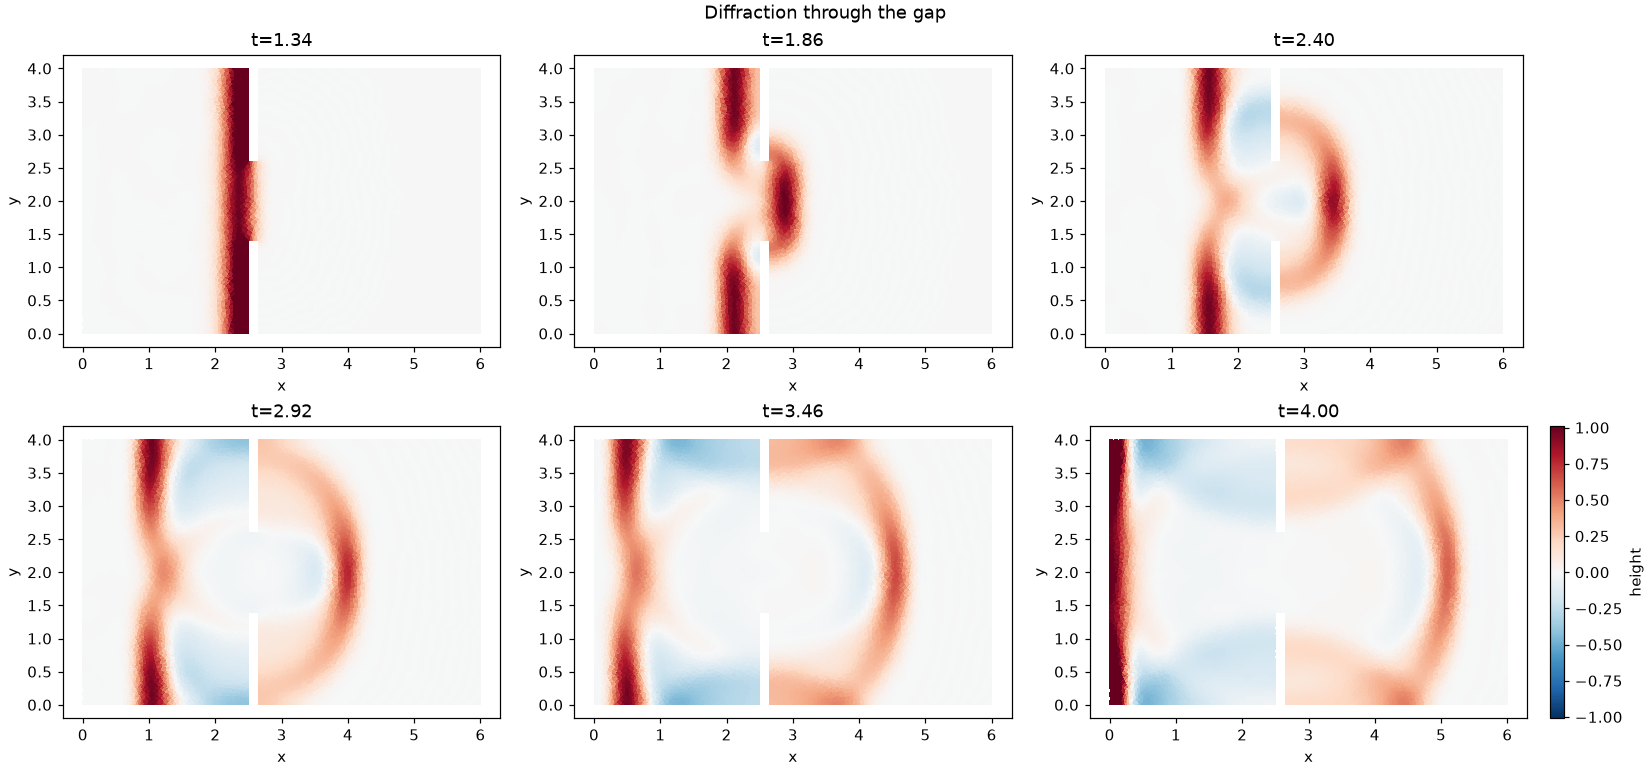
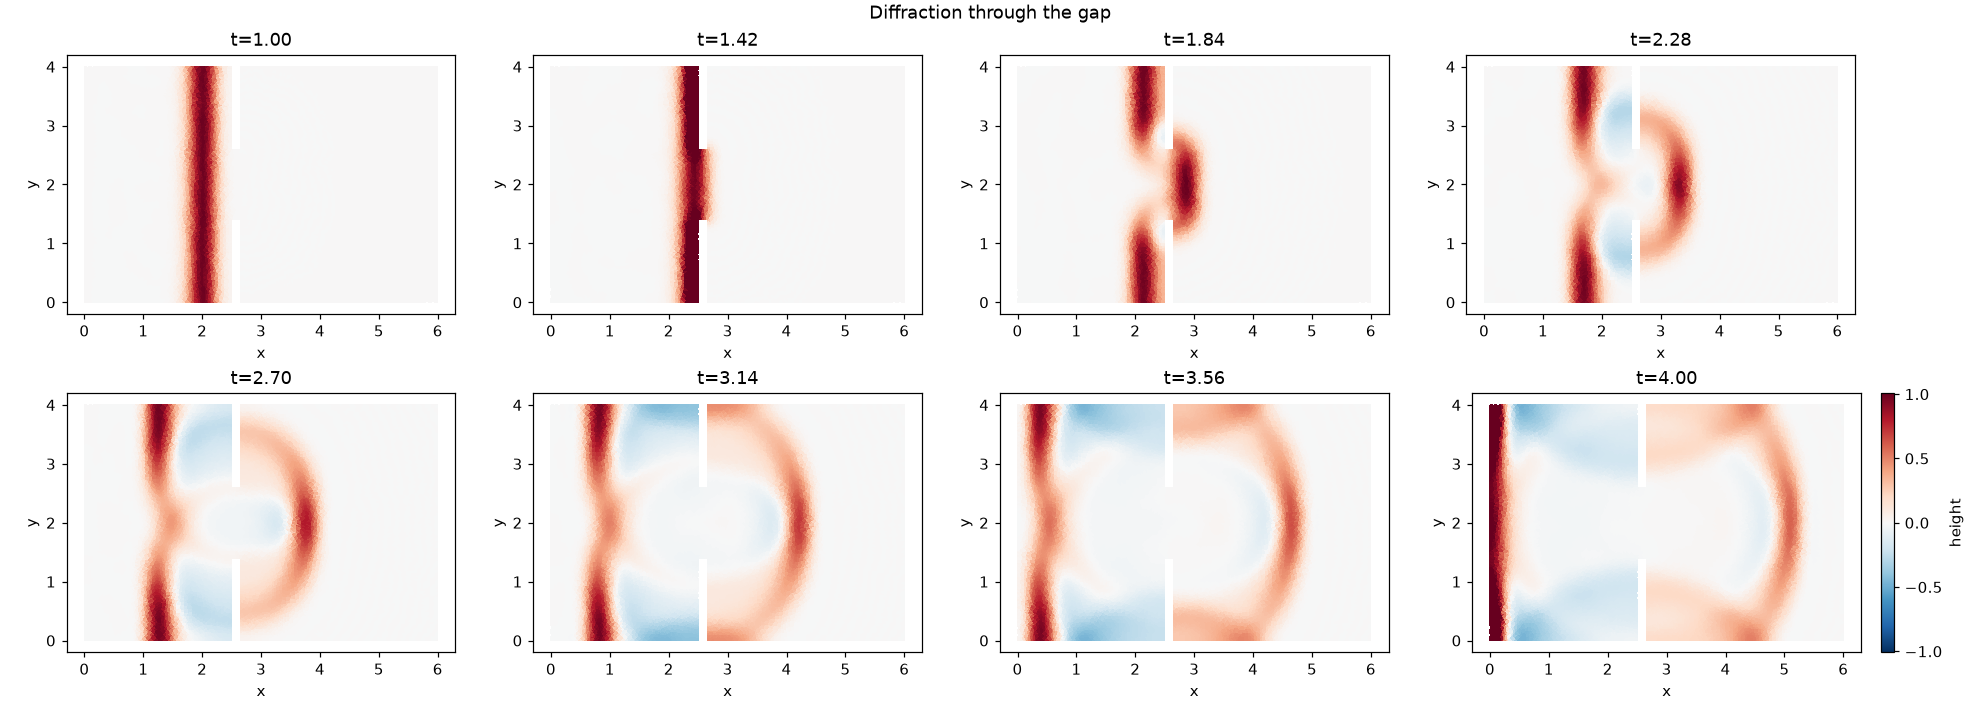
Show eight wave frames

Changed region(s): [[0.0, 0.5, 1.0, 0.9688], [0.0, 0.0, 0.9273, 0.4688], [0.2473, 0.25, 0.2782, 0.2812]]

diff --git a/examples/solver_demos.py b/examples/solver_demos.py
@@ -938,7 +938,7 @@ def demo_wave_equation(c=1.0, front_x=1.0, front_width=0.25, dt=0.02, steps=200,
     # One colour scale, set by the harbor side, so the diffracted wave reads even
     # though it is far lower than the front that made it (which doubles again when it
     # reflects off the far wall).
-    shown = [int(i) for i in np.linspace(len(u_values) // 3, len(u_values) - 1, 6)]
+    shown = [int(i) for i in np.linspace(len(u_values) // 4, len(u_values) - 1, 8)]
     harbor = x > wall_x + wall_thickness
     span = float(max(abs(u_values[i][harbor]).max() for i in shown))
     clim = (-span, span)
@@ -948,19 +948,21 @@ def demo_wave_equation(c=1.0, front_x=1.0, front_width=0.25, dt=0.02, steps=200,
                              cmap='RdBu_r', titles=[f'Harbor breakwater  t={t:.2f}' for t in t_values],
                              idx=(0, 0))
 
-    snapshots = Plotter(2, 3, figsize=(15.0, 7.0), title='Diffraction through the gap')
+    snapshots = Plotter(2, 4, figsize=(18.0, 6.4), title='Diffraction through the gap')
     for panel, i in enumerate(shown):
-        snapshots.plot(mesh, u_values[i], mode='colored', idx=divmod(panel, 3),
-                       title=f't={t_values[i]:.2f}', clim=clim, colorbar=panel == 5,
+        snapshots.plot(mesh, u_values[i], mode='colored', idx=divmod(panel, 4),
+                       title=f't={t_values[i]:.2f}', clim=clim, colorbar=panel == 7,
                        cmap='RdBu_r', label='height')
+
 
     return DemoResult([
         Figure(animation, 'Newmark time integration of the front.', 'animation'),
         Figure(snapshots,
-               'The front reflects off the breakwater and passes the gap, where it '
-               'spreads into the harbor as a circular wave centred on the opening, lower '
-               'than the front that made it. Later frames show that wave reflecting off '
-               'the harbor walls and the reflected front returning on the open side.',
+               'The front reaches the breakwater, reflects off the wall, and passes the '
+               'gap, where it spreads into the harbor as a circular wave centred on the '
+               'opening, lower than the front that made it. The last frames show that wave '
+               'reflecting off the harbor walls while the reflected front returns on the '
+               'open side.',
                'snapshots'),
         Figure(setup,
                'A basin with a breakwater across it, open on the left and sheltered on the '
